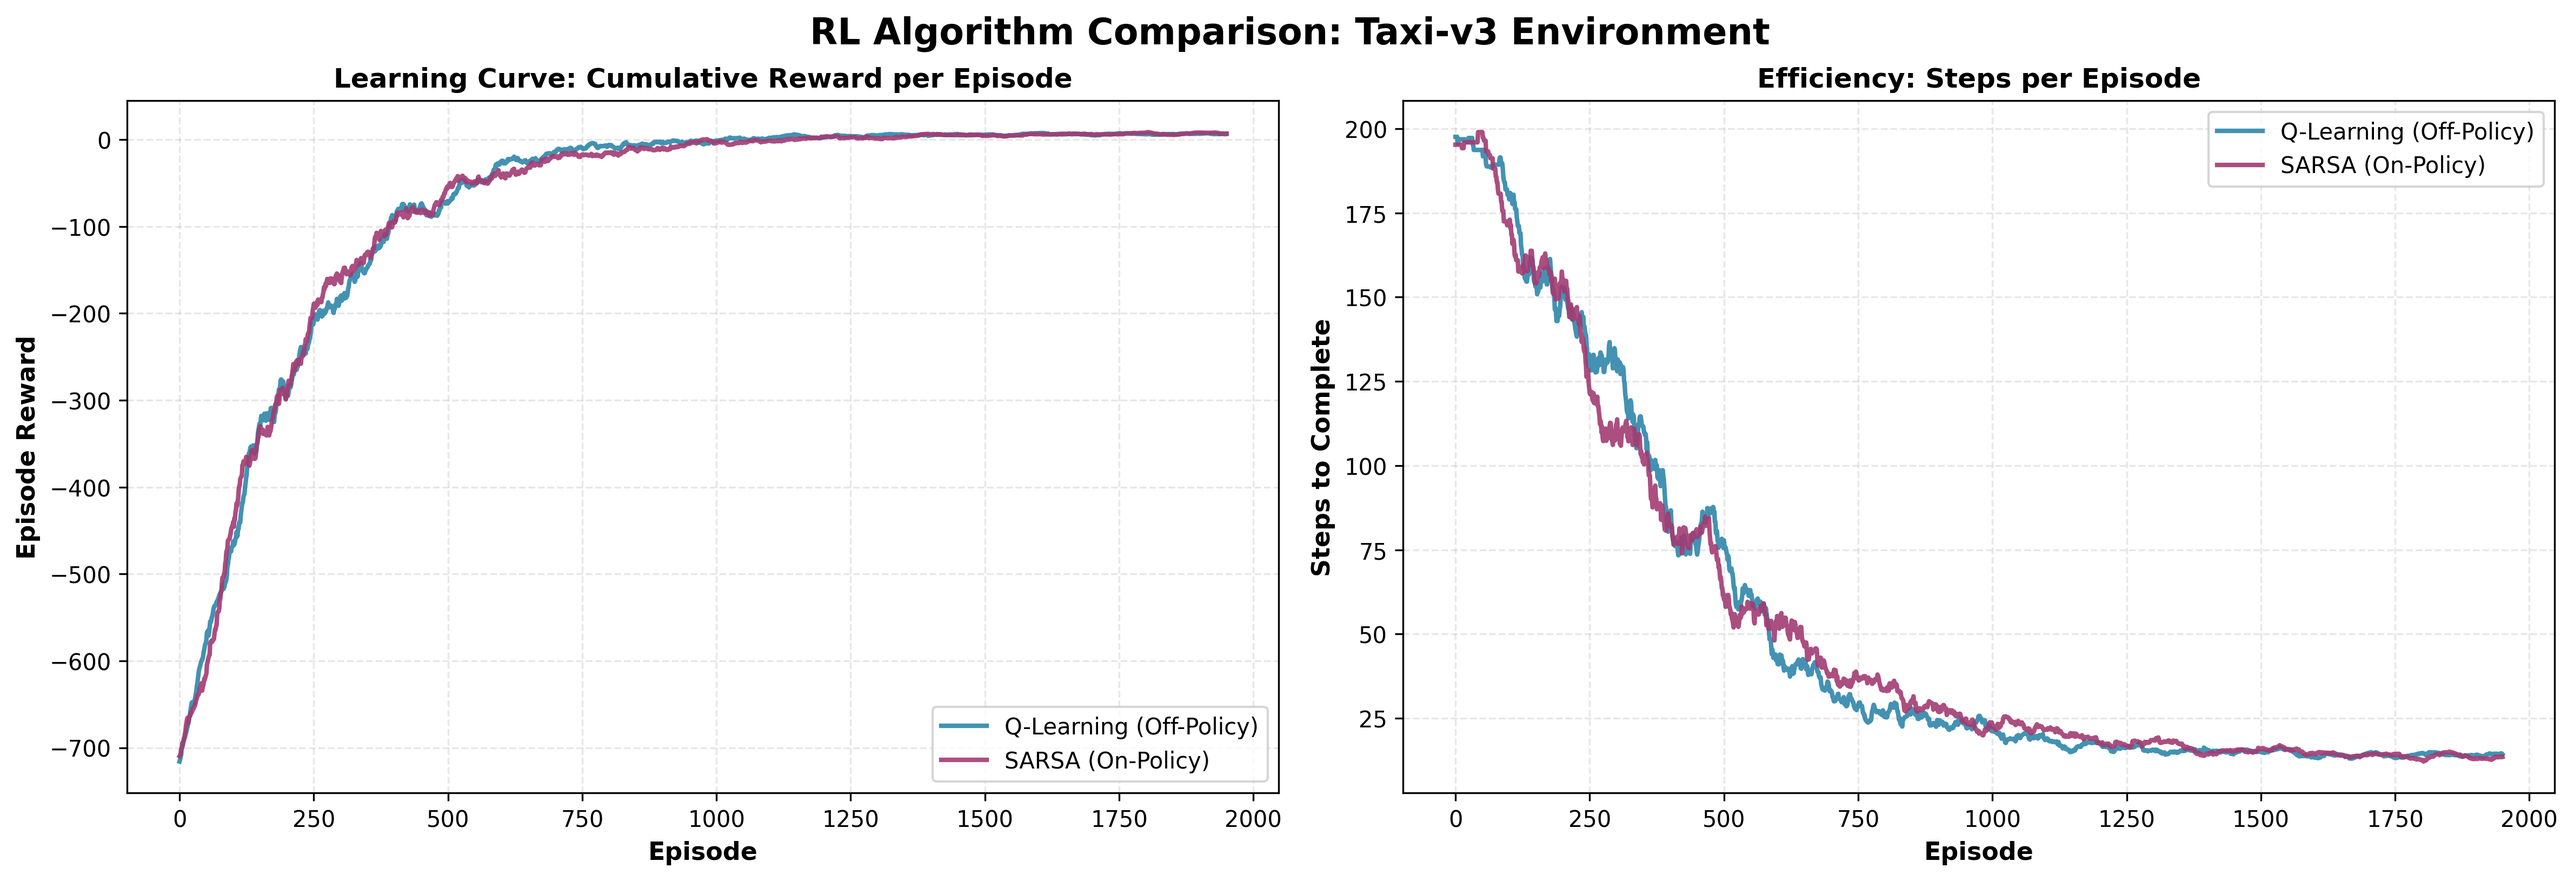
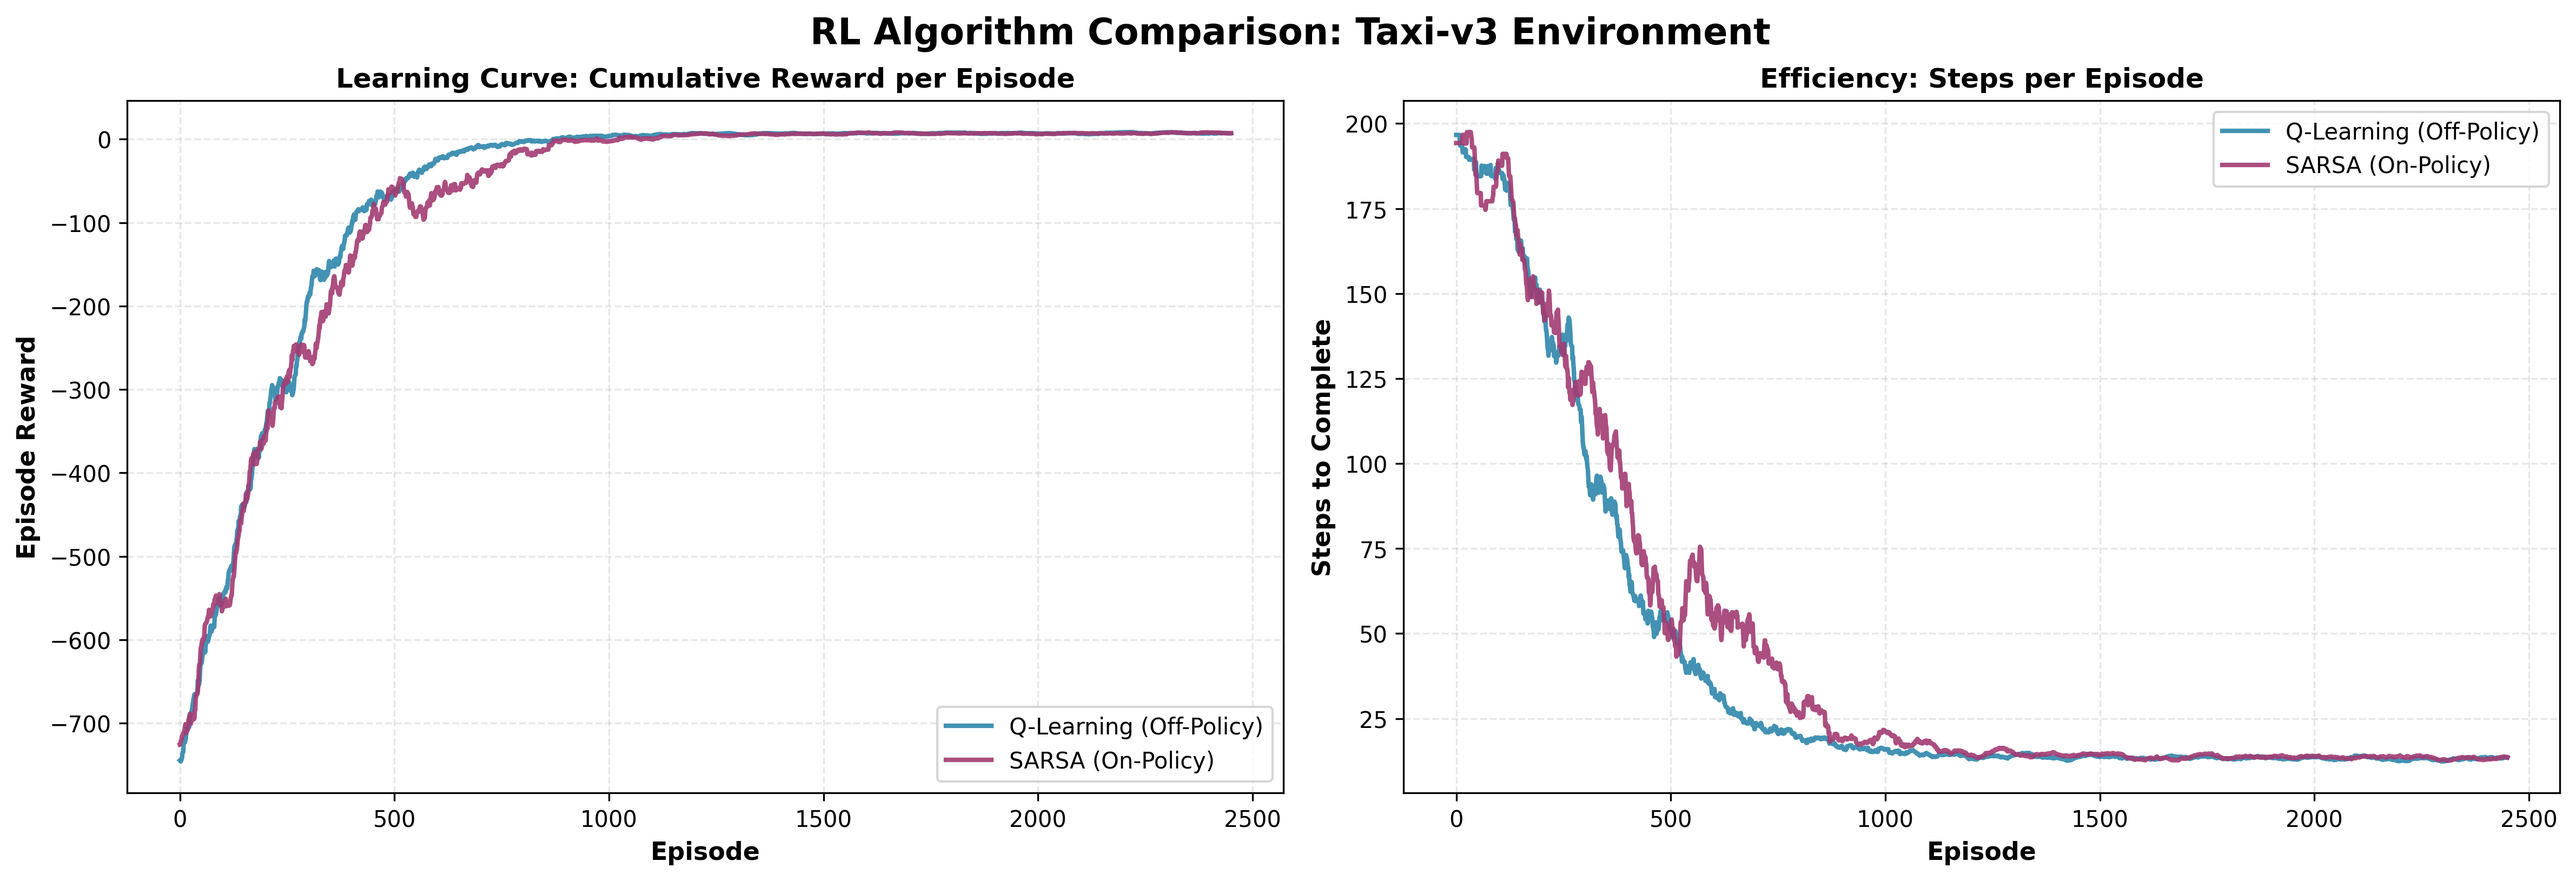
Updated calibrations

diff --git a/src/main.py b/src/main.py
@@ -6,7 +6,7 @@ import time
 import matplotlib.pyplot as plt
 
 # --- Import your agents ---
-from src.Q_Learning import QLearningAgent
+from Q_Learning import QLearningAgent
 from SARSAA import SARSAAgent
 
 
@@ -167,7 +167,6 @@ def watch_agent(agent):
     env.close()
     print("Demo finished.")
 
-
 def plot_comparison(results_dict, save_path='comparison_plots.png', show=True):
     """Create comparison plots for multiple algorithms."""
     fig, axes = plt.subplots(2, 2, figsize=(16, 10))
@@ -232,13 +231,13 @@ def main():
     config = {
         'n_states': 500,
         'n_actions': 6,
-        'alpha': 0.1,
-        'gamma': 0.99,
+        'alpha': 0.15,
+        'gamma': 0.97,
         'epsilon': 1.0,
-        'epsilon_decay': 0.995,
+        'epsilon_decay': 0.997,
         'epsilon_min': 0.01,
-        'n_episodes': 2000,
-        'eval_episodes': 100
+        'n_episodes': 2500, #no of times trained-runs
+        'eval_episodes': 150#testing evaln
     }
 
     # 3. Initialize agents
